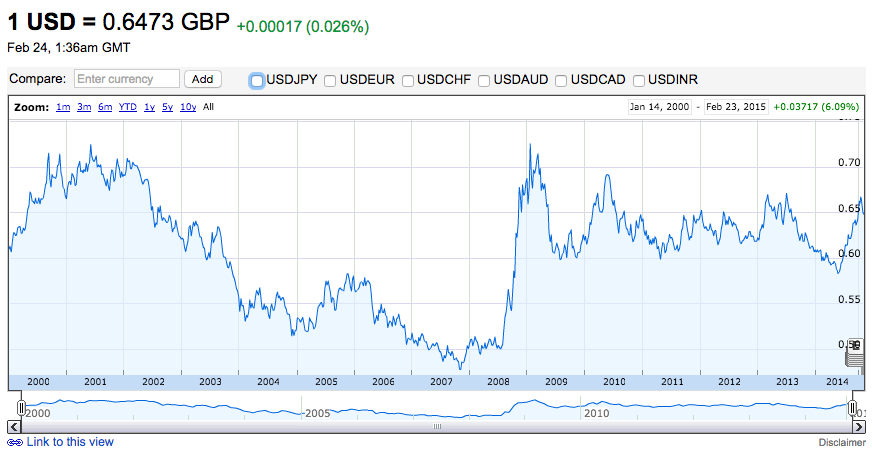
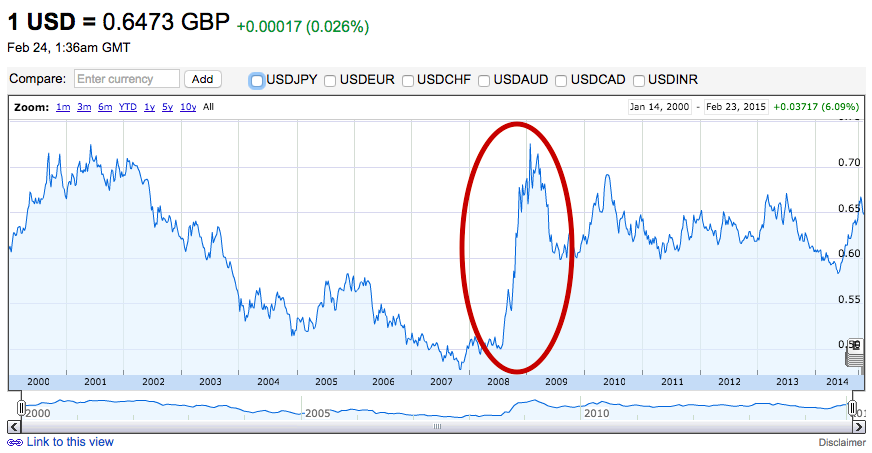
update post

diff --git a/_posts/2015-02-24-Confusion-Greed-Uncertainty-Bitcoin.md b/_posts/2015-02-24-Confusion-Greed-Uncertainty-Bitcoin.md
@@ -7,7 +7,7 @@ blurb: How a human trait is in the way of a transactional currency.
 To bring any virtual currency into a space where we know we’re not a gang of tech folk telling a story to ourselves it needs to reach critical adoption.  
 
 Other tech heads think so too (ones much smarter than me!):
-<blockquote class="twitter-tweet" lang="en"><p>this is IMO the key graph to watch for bitcoin adoption: <a href="https://t.co/8LVBSbrwbe">https://t.co/8LVBSbrwbe</a> (and yeah, sidechains aren&#39;t fully counted etc etc)</p>&mdash; Sam Altman (@sama) <a href="https://twitter.com/sama/status/569948188829831169">February 23, 2015</a></blockquote>
+<blockquote class="twitter-tweet" lang="en"><p>this is IMO the key graph to watch for Bitcoin adoption: <a href="https://t.co/8LVBSbrwbe">https://t.co/8LVBSbrwbe</a> (and yeah, sidechains aren&#39;t fully counted etc etc)</p>&mdash; Sam Altman (@sama) <a href="https://twitter.com/sama/status/569948188829831169">February 23, 2015</a></blockquote>
 <script async src="//platform.twitter.com/widgets.js" charset="utf-8"></script>
 
 This is the graph of daily transaction volumes in USD that Mr Altman was linking to:
@@ -17,9 +17,9 @@ As you can see, currently Bitcoin is not trending towards that critical level of
 
 Although - there are good reasons why it should. Virtual currencies have highly tangible benefits over real world currencies:
 
-They enable a borderless monetary system with no intermediaries. This means an international transaction that currently takes several days to complete could be done in minutes.
-They dramatically cut the cost of moving funds between two parties to very close to zero. Currently the fee charged to a retailer for a £100 transaction is anywhere between £0.08 (debit card) to £1.60 (high rewards credit card).
-They allow large sums of money to be moved extremely quickly (15 min) with (basically) full certainty that it will arrive where it’s meant to go. In terms of substantial scale capital management (we’re talking the world of investment banking here) that’s a very big deal.
+*They enable a borderless monetary system with no intermediaries. This means an international transaction that currently takes several days to complete could be done in minutes.
+*They dramatically cut the cost of moving funds between two parties to very close to zero. Currently the fee charged to a retailer for a £100 transaction is anywhere between £0.08 (debit card) to £1.60 (high rewards credit card).
+*They allow large sums of money to be moved extremely quickly (15 min) with (basically) full certainty that it will arrive where it’s meant to go. In terms of substantial scale capital management (we’re talking the world of investment banking here) that’s a very big deal.
 
 <small>Links to sources: <a href="http://www.mobilepaymentstoday.com/articles/futureofpayments-bitcoin-has-advantages-over-traditional-banking-services/" target="_blank">Mobile Payments Today</a>, <a href="http://www.thisismoney.co.uk/money/cardsloans/article-2363930/Why-pay-use-credit-debit-card.html" target="_blank">This Is Money</a></small>
 
@@ -29,7 +29,7 @@ But yet we’re not getting an increase in virtual currency adoption - and I bel
 
 Virtual currencies are very mysterious things. They are very complex, highly technical and rather tricky for even a vaguely technically minded individual to grasp solidly. 
 
-I’ll use my(vaguely-technically-minded)self as an example - Back in November of 2013 when bitcoin was flying off the chart I bought myself half a Bitcoin for ~£350.00. My investment thesis was based on my inability to understand the way that real world money is able to increasingly leverage itself. We don’t actually have the money that we think we have in the bank. It has been loaned out to people (who believe they have it in their bank accounts - when they don’t either). This is why banks die when there is a ‘run’ on them. Bitcoin has it’s growth growth controlled by an algorithm <b>(I think!)</b>, and I had heard vague notions that this algorithm was asymptotic <b>(perhaps!)</b>. <span style="color:#1D62F0">[This is in fact <b>not</b> true for all virtual currencies - but more on this later.]</span> A solid hedge against the global financial system collapsing I thought! 
+I’ll use my(vaguely-technically-minded)self as an example - Back in November of 2013 when Bitcoin was flying off the chart I bought myself half a Bitcoin for ~£350.00. My investment thesis was based on my inability to understand the way that real world money is able to increasingly leverage itself. We don’t actually have the money that we think we have in the bank. It has been loaned out to people (who believe they have it in their bank accounts - when they don’t either). This is why banks die when there is a ‘run’ on them. Bitcoin has it’s growth growth controlled by an algorithm <b>(I think!)</b>, and I had heard vague notions that this algorithm was asymptotic <b>(perhaps!)</b>. <span style="color:#1D62F0">[This is in fact <b>not</b> true for all virtual currencies - but more on this later.]</span> A solid hedge against the global financial system collapsing I thought! 
 
 I was / am an overconfident and overlazy investor so I didn’t do much research - but it looked like I had a lot of good feeling backing me up! Bitcoins price was rocketing. If I had some Bitcoin my bank balance would be rocketing too. I didn’t need much of a story to give me a reason to place my bet.
 
@@ -42,7 +42,7 @@ Oops...
 
 The great thing about complex things is that your brain gets to tell itself lots of stories about them and not have a clear understanding of if those stories are right or wrong. When it comes to financial assets, brains really like to do this and they like do this because of a very human trait called greed.
 
-<small>(At the end of this article you can read how further Bitcoin complexity ended my financial adventure in an even more painful way than the market would have).</small>
+<small>At the end of this article you can read how further Bitcoin complexity ended my financial adventure in an even more painful way than the market would have.</small>
 
 <h3>Greed</h3>
 
@@ -55,16 +55,18 @@ Dollars (or fridges for that matter) don’t suffer from wild price fluctuations
 Let’s compare the major price fluctuations of USD to Bitcon since 2009 with USD to GBP since the year 2000 (as far as Google Finance will let me go back).
 
 <u>USD to Bitcoin</u>
-June 2010 - Bitcoin price rises 900% in five days ($0.008 / Bt to $0.08 / Bt)
-8th July 2011 - 18th Nov 2011 - Bitcion price falls 93% in four months and ten days (and ~50% in one day) ($30 / Bt to $2 / Bt)
-11th March 2013 - 11th April 2013 -  Bitcoin price rises 375% in one month ($48 / Bt to $230 / Bt)
-4th November 2013 - 4th December 2013 - Bitcoin price rises 410% in one month ($225 / Bt to $1,147 / Bt)
-4th December 2013 - 7th December 2013 - Bitcion price falls 39% in three days ($1,147 / Bt to $694 / Bt)
+*June 2010 - Bitcoin price rises 900% in five days ($0.008 / Bt to $0.08 / Bt)
+*8th July 2011 - 18th Nov 2011 - Bitcoin price falls 93% in four months and ten days (and ~50% in one day) ($30 / Bt to $2 / Bt)
+*11th March 2013 - 11th April 2013 -  Bitcoin price rises 375% in one month ($48 / Bt to $230 / Bt)
+*4th November 2013 - 4th December 2013 - Bitcoin price rises 410% in one month ($225 / Bt to $1,147 / Bt)
+*4th December 2013 - 7th December 2013 - Bitcoin price falls 39% in three days ($1,147 / Bt to $694 / Bt)
 
 
 <u>USD to GBP</u>
 <img src="/images/usdtogbp.png">
 That big jump you see is equal to a 44% increase over six months and five days - £0.5 / $ July 18th 2008 to £0.73 / $ Jan 23rd 2009.
+
+***
 
 It’s been pretty well established that we as humans suffer from FOMO (Fear Of Missing Out). This FOMO goes to another level entirely if the thing you’re missing out on is several million dollars (as opposed to your next door neighbours wine and cheese themed pool party). And that’s the situation we’re in with Bitcoin. 
 
@@ -91,6 +93,6 @@ I am not the most technically minded man about town, so I don’t know if this i
 I’m curious, so if you know the answer to this, please let me know! Tweet <a href="http://deeplink.me/twitter.com/joshsummersblog">@JoshSummersBlog</a>. [Link will open in Twitter app if on mobile.]
 
 <small>
-<u>The sad end to my Bitcoin adventure</u>
+<u>The sad end to my Bitcoin adventure</u><br>
 Not only was my bet wrong, but my understanding of virtual wallets was wrong too! After my hard drive crashed and the man at Apple told me he would have to wipe it - I quickly learnt that I had lost my little bit of Bitcoin. Fingers crossed the global financial system stays strong.
 </small>
